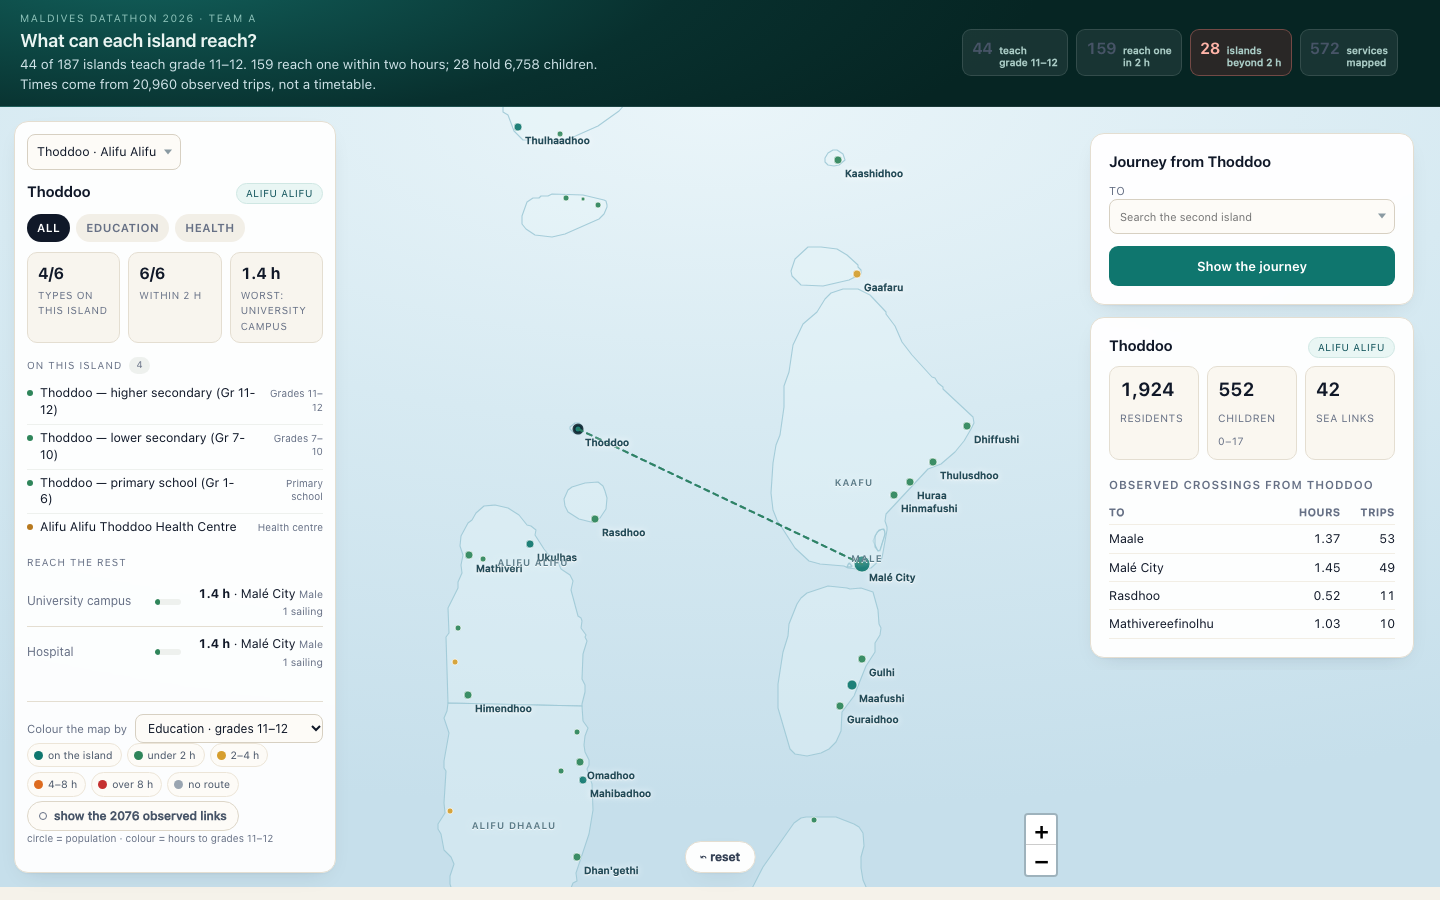
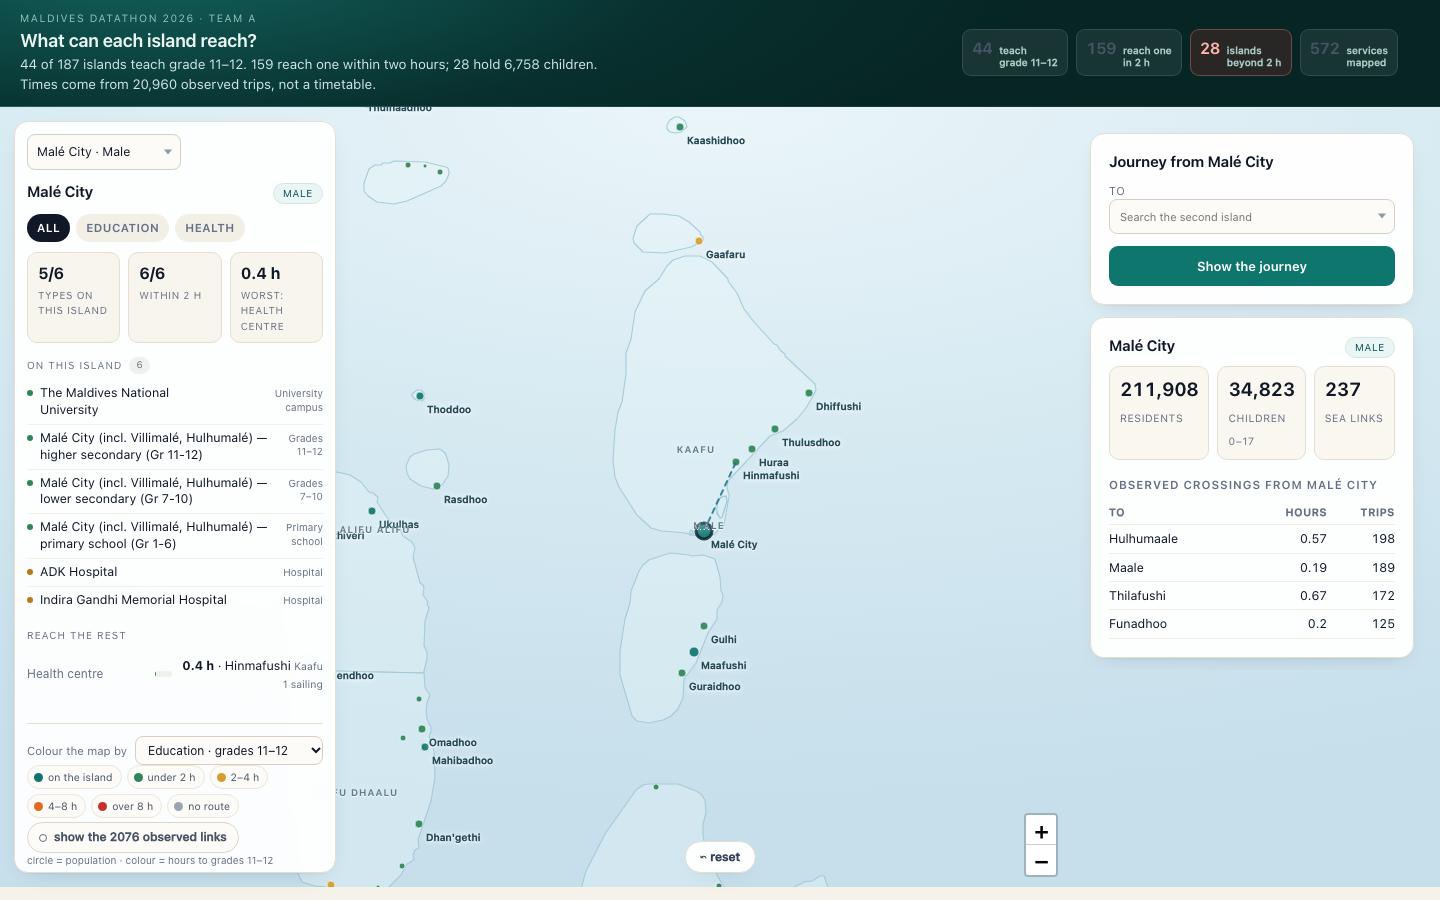
Fix dead clear button (listeners were never attached); first-paint facility list; wider island picker

diff --git a/web/access/templates/access/index.html b/web/access/templates/access/index.html
@@ -35,7 +35,7 @@
       </div>
     </div>
 
-    <div id="connect-out">{% with c=first_panel.c rows=first_panel.rows category=first_panel.category paths=first_panel.paths local_n=first_panel.local_n within2=first_panel.within2 total_n=first_panel.total_n worst=first_panel.worst cat_label=first_panel.cat_label %}{% include "access/_connect.html" %}{% endwith %}</div>
+    <div id="connect-out">{% with c=first_panel.c rows=first_panel.rows category=first_panel.category paths=first_panel.paths local_n=first_panel.local_n within2=first_panel.within2 total_n=first_panel.total_n worst=first_panel.worst cat_label=first_panel.cat_label local_services=first_panel.local_services n_local_services=first_panel.n_local_services %}{% include "access/_connect.html" %}{% endwith %}</div>
 
     <div class="mapctl">
       <label class="metricrow" id="metricrow">
@@ -66,7 +66,7 @@
   <aside class="ovl ovl-right">
     <div class="card" id="paircard">
       <div class="cardhead">
-        <h2>Journey from <span id="fromName">{{ default_from_name }}</span></h2>
+        <h2>Journey from <span id="fromName">{{ default_from_name|default:"this island" }}</span></h2>
         <button class="ghost" id="clearTo" type="button" hidden title="Remove the second island">✕ clear</button>
       </div>
       <div id="route-out" data-default-to="{{ default_to }}">
@@ -419,7 +419,7 @@ function selectIsland(id, opts = {}) {
   htmx.ajax("GET", `/connect/?island=${id}`, {target:"#connect-out", swap:"innerHTML"});
   setPicker("from", id);
   if (el("islandPick")) setPicker("islandPick", id);
-  if (el("fromName")) el("fromName").textContent = state.byId.get(id).name;
+  if (el("fromName")) el("fromName").textContent = p.name || p.id;
   const q = new URLSearchParams(location.search);
   q.set("island", id);
   history.replaceState({}, "", "?" + q.toString());
@@ -612,6 +612,9 @@ el("metric").addEventListener("change", e => {
   applyMetric();
 });
 
+
+el("clearTo").addEventListener("click", clearTo);
+el("netToggle").addEventListener("click", toggleLinks);
 
 el("resetmap").addEventListener("click", () => {
   state.band = null;

diff --git a/web/access/static/access/app.css b/web/access/static/access/app.css
@@ -810,3 +810,6 @@ ul.ownlist em { margin-left: auto; font-style: normal; font-size: 10px; color: v
 
 .combo.wide { width: 100%; }
 .combo.wide .combotext { width: 100%; }
+
+#islandCombo, #islandCombo .combotext { width: 100%; }
+#islandCombo .combotext { font-size: 12.5px; padding-right: 22px; }

diff --git a/web/access/views.py b/web/access/views.py
@@ -83,7 +83,7 @@ def index(request):
         "manifest": _manifest(),
         "default_from": island,
         "default_to": "",
-        "default_from_name": m.name_of(island),
+        "default_from_name": m.name_of(island) or island,
         "default_to_name": "",
         "default_island": island,
         "n_rows": len(m.inhabited),
